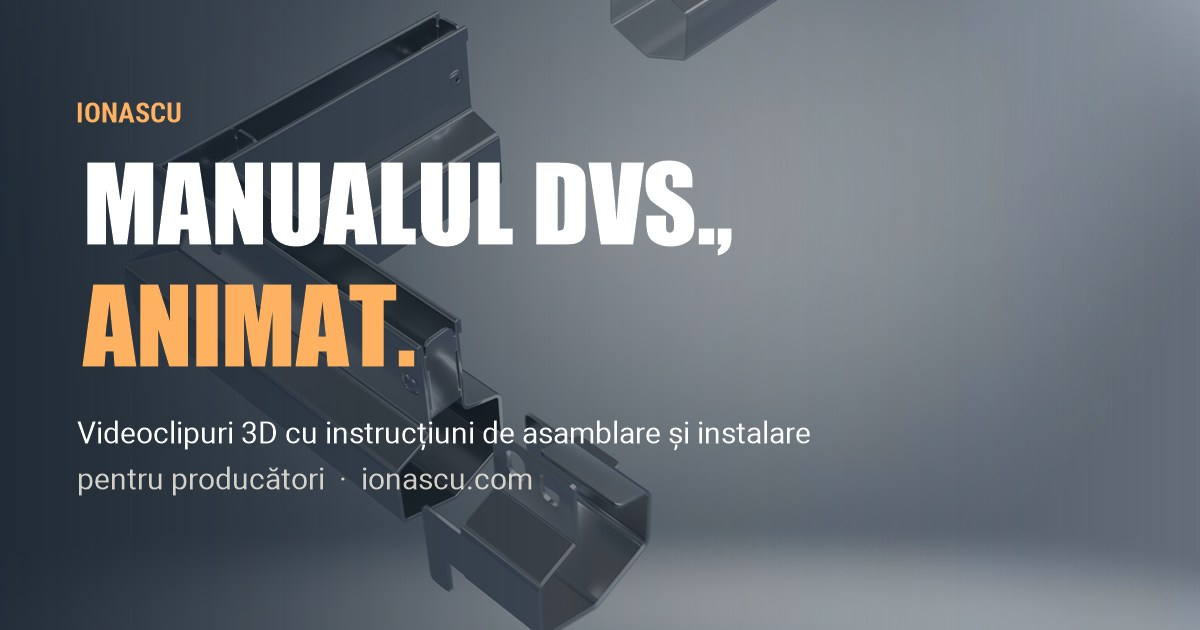
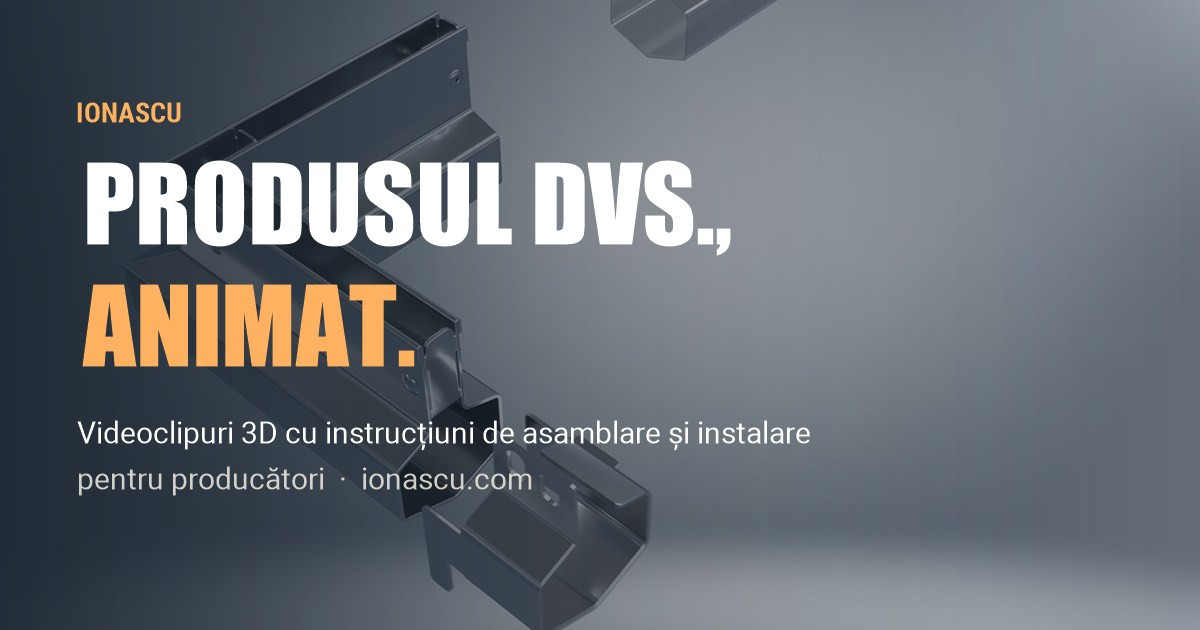
Home page: new headline, four-jobs strip, pre-production block
- Headline: Your product, animated (EN, RO, RU) and matching social images
- New strip under the banner: One animation, four jobs
- New dark block: No product yet? Show it anyway.
- Section eyebrow and heading swapped (What we make / Step by step)

diff --git a/src/i18n/home.ts b/src/i18n/home.ts
@@ -5,10 +5,24 @@ export const home = {
     description:
       'Turn your assembly manual into a clear 3D animation. Step-by-step assembly and installation videos for manufacturers, from a 3D artist with 25+ years of experience.',
     heroEyebrow: 'IONASCU / 3D animation studio',
-    h1: 'Your manual, ', h1Em: 'animated.',
+    h1: 'Your product, ', h1Em: 'animated.',
     h1Sub: '3D assembly & installation instruction videos',
     heroLead: 'Short, clear 3D animations that show every step.',
-    makeEyebrow: 'What we make', makeH2: 'Every ', makeH2Em: 'step', makeSub: 'Animation for every kind of product instruction',
+    useEyebrow: 'What you get', useH2: 'One animation, ', useH2Em: 'four jobs',
+    uses: [
+      ['Training', 'Teaches your staff and customers how to use the product.'],
+      ['Presentations', 'Shows the product at conferences, exhibitions and meetings.'],
+      ['Company image', 'Makes your company look modern and professional.'],
+      ['Less support', 'Answers the common questions, so your support team gets fewer calls.'],
+    ],
+    preEyebrow: 'Before production', preH2: 'No product yet? ', preH2Em: 'Show it anyway.',
+    preLead: 'A 3D animation is built from drawings or a CAD model, so your product can be presented before the first one is made.',
+    pre: [
+      ['Exhibitions and presentations', 'Show the concept at a trade show, in a pitch or in a sales meeting.'],
+      ['Investors and partners', 'Let investors, distributors and partners see exactly what you are going to build.'],
+      ['Orders before launch', 'Collect feedback, pre-orders and tender interest while production is still being prepared.'],
+    ],
+    makeEyebrow: 'Step by step', makeH2: 'What we ', makeH2Em: 'make', makeSub: 'Animation for every kind of product instruction',
     whyEyebrow: 'Why animation', whyH2: 'Many pages ', whyH2Em: 'or', whyH2After: ' 1 minute',
     whySub: 'Same product, three ways to explain it. Example: IKEA HELMER cabinet.',
     cmp: [
@@ -44,10 +58,24 @@ export const home = {
     description:
       'Transformați manualul de asamblare într-o animație 3D clară. Videoclipuri pas cu pas pentru asamblarea și instalarea produselor, pentru producători, de la un artist 3D cu peste 25 de ani de experiență.',
     heroEyebrow: 'IONASCU / studio de animație 3D',
-    h1: 'Manualul dvs., ', h1Em: 'animat.',
+    h1: 'Produsul dvs., ', h1Em: 'animat.',
     h1Sub: 'Videoclipuri 3D cu instrucțiuni de asamblare și instalare',
     heroLead: 'Animații 3D scurte și clare care arată fiecare pas.',
-    makeEyebrow: 'Ce facem', makeH2: 'Fiecare ', makeH2Em: 'pas', makeSub: 'Animație pentru orice fel de instrucțiune de produs',
+    useEyebrow: 'Ce obțineți', useH2: 'O animație, ', useH2Em: 'patru roluri',
+    uses: [
+      ['Instruire', 'Îi învață pe angajații și pe clienții dvs. cum se folosește produsul.'],
+      ['Prezentări', 'Prezintă produsul la conferințe, expoziții și întâlniri.'],
+      ['Imaginea companiei', 'Face compania dvs. să arate modern și profesionist.'],
+      ['Mai puțin suport', 'Răspunde la întrebările frecvente, așa că departamentul de suport primește mai puține apeluri.'],
+    ],
+    preEyebrow: 'Înainte de producție', preH2: 'Încă nu aveți produsul? ', preH2Em: 'Arătați-l oricum.',
+    preLead: 'O animație 3D se realizează din desene sau dintr-un model CAD, așa că produsul dvs. poate fi prezentat înainte de a fi fabricat primul exemplar.',
+    pre: [
+      ['Expoziții și prezentări', 'Prezentați conceptul la un târg, într-o prezentare sau la o întâlnire de vânzări.'],
+      ['Investitori și parteneri', 'Investitorii, distribuitorii și partenerii văd exact ce urmează să produceți.'],
+      ['Comenzi înainte de lansare', 'Strângeți păreri, precomenzi și interes la licitații cât timp producția încă se pregătește.'],
+    ],
+    makeEyebrow: 'Pas cu pas', makeH2: 'Ce ', makeH2Em: 'facem', makeSub: 'Animație pentru orice fel de instrucțiune de produs',
     whyEyebrow: 'De ce animație', whyH2: 'Multe pagini ', whyH2Em: 'sau', whyH2After: ' 1 minut',
     whySub: 'Același produs, trei moduri de a-l explica. Exemplu: dulapul IKEA HELMER.',
     cmp: [
@@ -83,10 +111,24 @@ export const home = {
     description:
       'Превратите инструкцию по сборке в понятную 3D-анимацию. Пошаговые видео по сборке и монтажу изделий для производителей, от 3D-художника с опытом более 25 лет.',
     heroEyebrow: 'IONASCU / студия 3D-анимации',
-    h1: 'Ваша инструкция, ', h1Em: 'в анимации.',
+    h1: 'Ваш продукт, ', h1Em: 'в анимации.',
     h1Sub: 'Видеоинструкции по сборке и монтажу в 3D',
     heroLead: 'Короткие и понятные 3D-анимации, показывающие каждый шаг.',
-    makeEyebrow: 'Что мы делаем', makeH2: 'Шаг за ', makeH2Em: 'шагом', makeSub: 'Анимация для любых инструкций к изделиям',
+    useEyebrow: 'Что вы получаете', useH2: 'Одна анимация, ', useH2Em: 'четыре задачи',
+    uses: [
+      ['Обучение', 'Учит сотрудников и покупателей, как пользоваться изделием.'],
+      ['Презентации', 'Показывает изделие на конференциях, выставках и встречах.'],
+      ['Имидж компании', 'Делает компанию современной и профессиональной в глазах клиентов.'],
+      ['Меньше звонков', 'Отвечает на частые вопросы, и отделу поддержки звонят реже.'],
+    ],
+    preEyebrow: 'До производства', preH2: 'Изделия ещё нет? ', preH2Em: 'Покажите его.',
+    preLead: 'Анимация делается по чертежам или CAD-модели, поэтому изделие можно представить ещё до выпуска первого экземпляра.',
+    pre: [
+      ['Выставки и презентации', 'Покажите концепцию на выставке, в презентации или на встрече с клиентами.'],
+      ['Инвесторы и партнёры', 'Инвесторы, дистрибьюторы и партнёры видят, что именно вы будете выпускать.'],
+      ['Заказы до запуска', 'Собирайте отзывы, предзаказы и интерес в тендерах, пока производство ещё готовится.'],
+    ],
+    makeEyebrow: 'Шаг за шагом', makeH2: 'Что мы ', makeH2Em: 'делаем', makeSub: 'Анимация для любых инструкций к изделиям',
     whyEyebrow: 'Почему анимация', whyH2: 'Много страниц ', whyH2Em: 'или', whyH2After: ' 1 минута',
     whySub: 'Одно изделие, три способа объяснить. Пример: тумба IKEA HELMER.',
     cmp: [

diff --git a/src/styles/global.css b/src/styles/global.css
@@ -744,6 +744,25 @@ section h2:first-child, section .prose > h2:first-child { margin-top: 0; }
 /* the long words in the three comparison cards ("Many pages", "Multe pagini", "Много страниц") stay on one line */
 html[lang='ro'] .compare .big, html[lang='ru'] .compare .big { font-size: clamp(1.4rem, 2.5vw, 2.3rem); white-space: nowrap; }
 .compare .cmp-text p { white-space: pre-line; } /* a line break (\n) in the card text is kept */
+/* "One animation, four jobs" strip right under the first banner */
+.uses .use-no { display: block; font-weight: 700; font-size: .85rem; letter-spacing: .2em; color: var(--accent); margin-bottom: .6rem; }
+.uses .use h3 { font-size: 1.05rem; margin-bottom: .5rem; }
+/* "No product yet? Show it anyway." : dark band, text on the left, a plain numbered list on the right (no cards) */
+.pre-product .lead { margin-top: 1rem; max-width: 34rem; color: rgb(255 255 255 / .82); }
+/* same size as the other section headings: only the colours change on the dark band */
+.dark.pre-product h2, .dark.pre-product h2 .big { color: #fff; }
+.pre-text > p:last-child { margin-top: 2.6rem; }
+.dark.pre-product h2 em.serif { color: #ffb162; white-space: nowrap; display: block; } /* "Покажите его." always on its own second row */
+.pre-product .pre-split { margin-top: 2.5rem; align-items: start; }
+.pre-split { display: grid; grid-template-columns: 1.1fr 1fr; gap: clamp(2rem, 6vw, 5rem); align-items: center; }
+.pre-list { list-style: none; margin: 0; padding: 0; counter-reset: pre; }
+.pre-list li { counter-increment: pre; display: grid; grid-template-columns: 3.2rem 1fr; column-gap: 1rem; padding: 1.3rem 0; border-top: 1px solid rgb(255 255 255 / .22); }
+.pre-list li:last-child { border-bottom: 1px solid rgb(255 255 255 / .22); }
+.pre-list li::before { content: counter(pre, decimal-leading-zero); grid-row: 1 / span 2; font-size: 1.7rem; font-weight: 700; line-height: 1; color: #ffb162; }
+.pre-list strong { display: block; font-size: 1.05rem; letter-spacing: .06em; text-transform: uppercase; margin-bottom: .35rem; }
+.pre-list span { color: rgb(255 255 255 / .78); line-height: 1.55; }
+@media (max-width: 860px) { .pre-split { grid-template-columns: 1fr; } }
+.hero-copy h1 .big em.serif { white-space: nowrap; } /* the accent words ("в анимации.") never split across two lines */
 .hero-copy .lead { text-wrap: balance; } /* no single word left alone on the last line */
 .compare a.card { display: block; color: inherit; text-decoration: none; cursor: pointer; }
 .nav .lang-group { display: inline-flex; gap: .25rem; }
